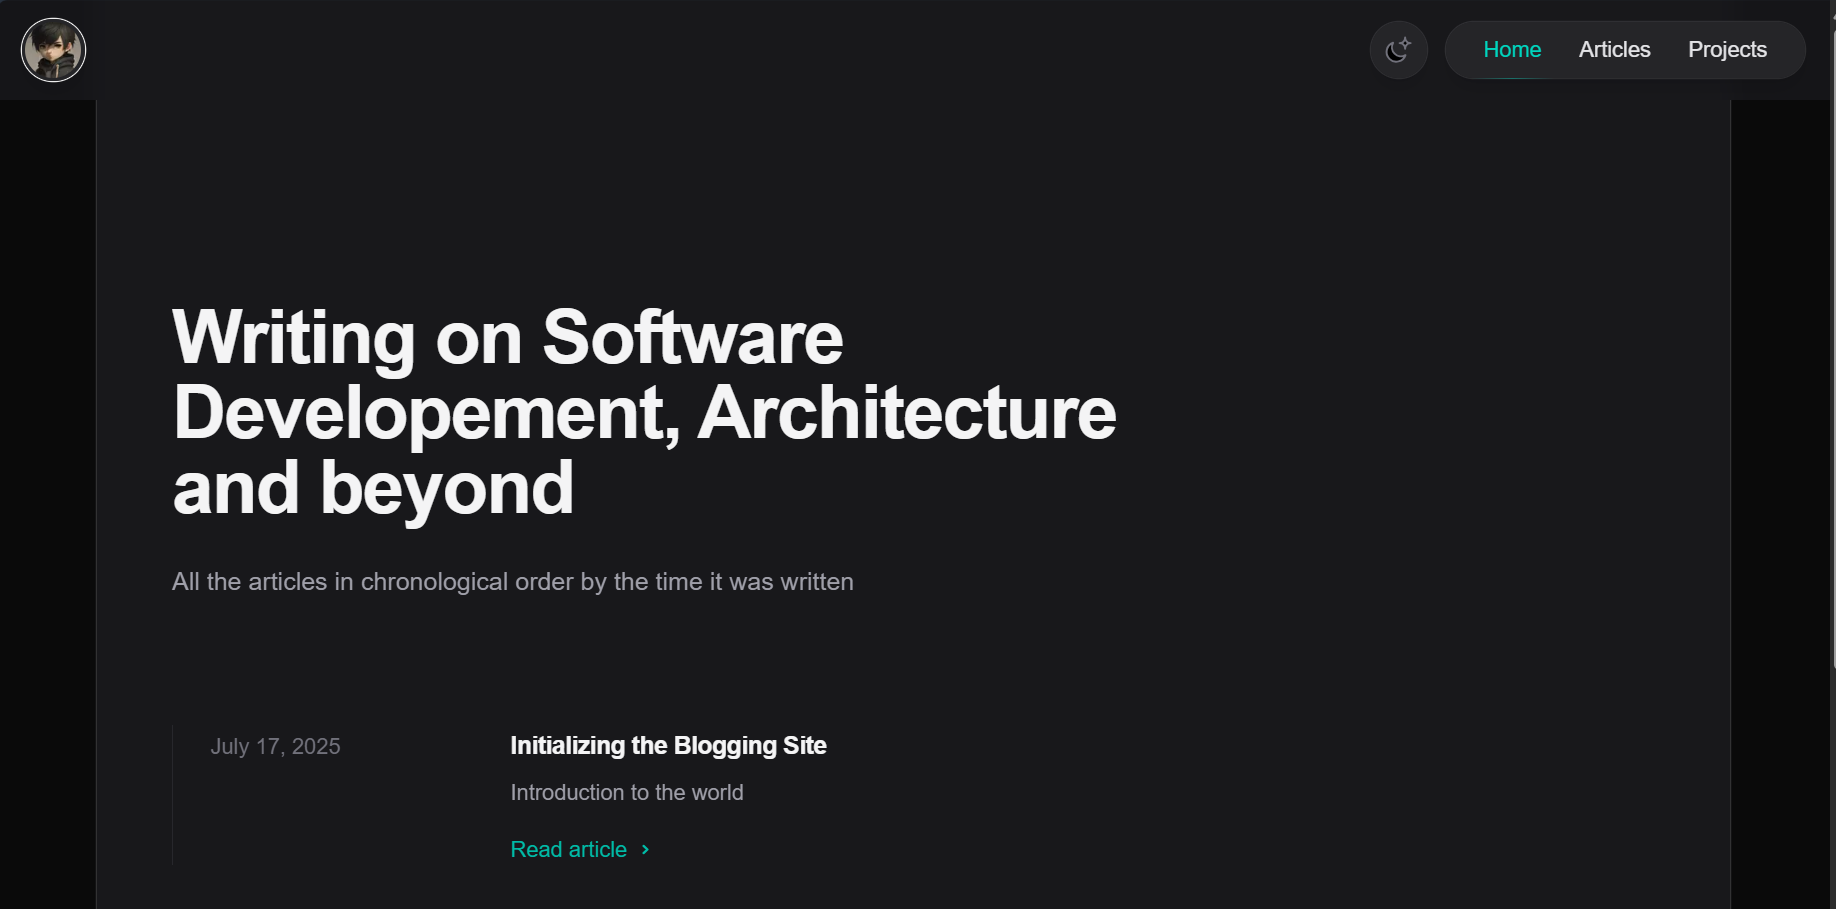
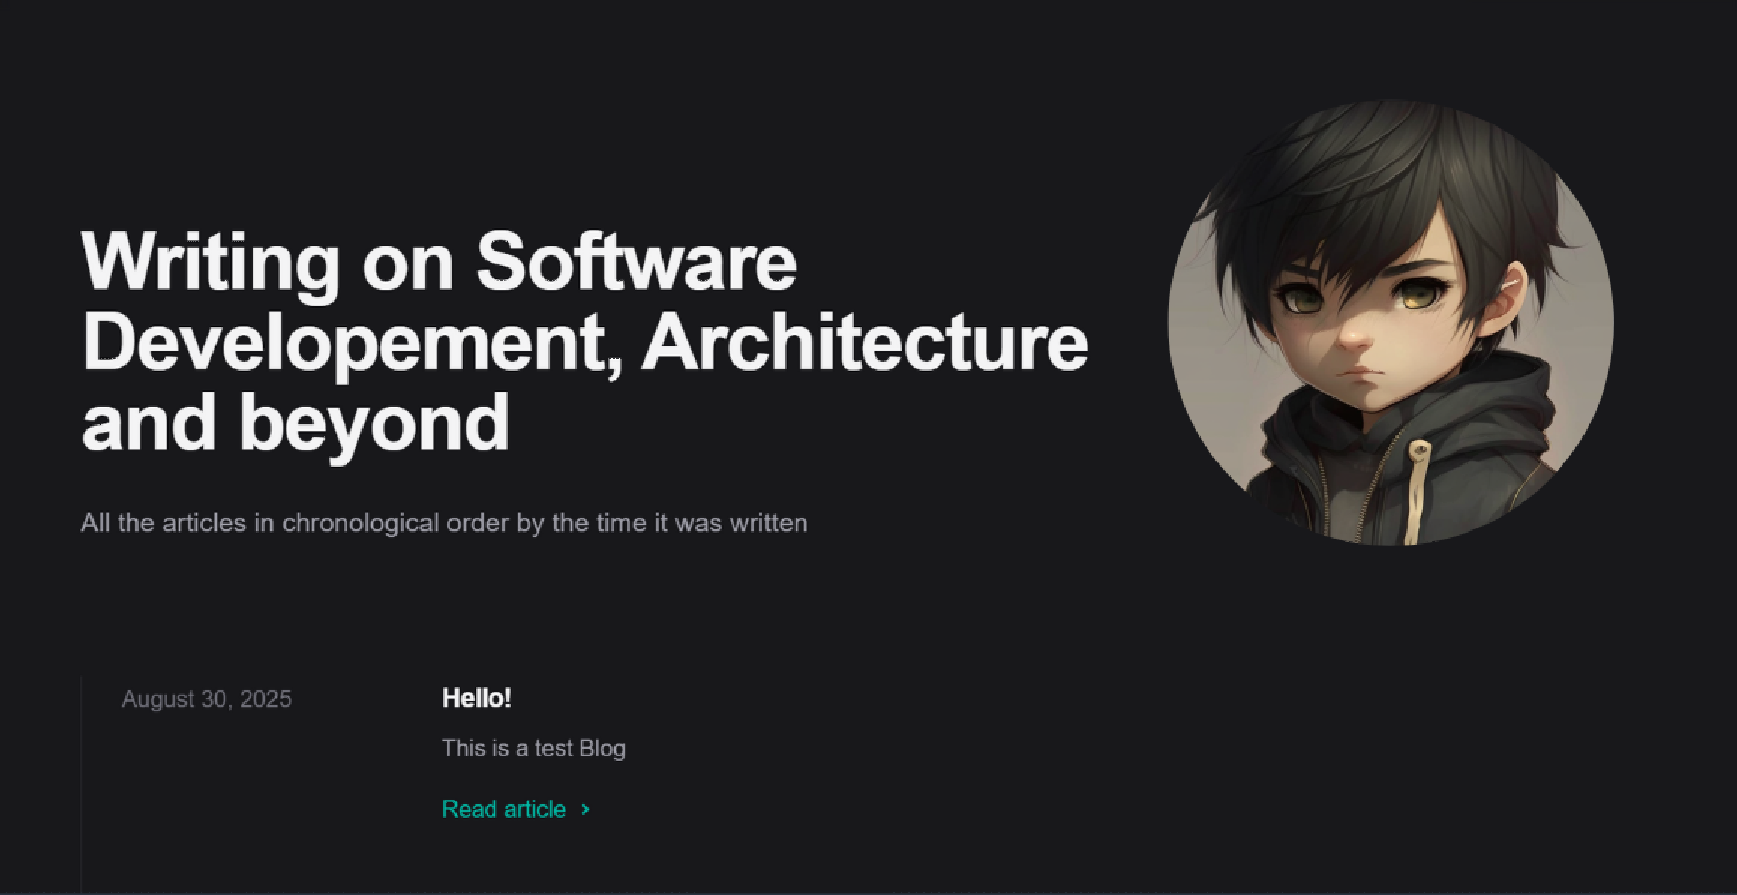
Updated the OG image and the metadata logic

diff --git a/src/app/articles/page.tsx b/src/app/articles/page.tsx
@@ -2,12 +2,22 @@ import { Card } from "@/components/Card";
 import { Container } from "@/components/Container";
 import { formatDate } from "@/lib/formatDate";
 import { type ArticleWithSlug, getAllArticles } from "@/lib/getArticles";
-import { metadata } from "../layout";
+import { Metadata } from "next";
 
-function Article({ article }: { article: ArticleWithSlug }) {
-  metadata.title = article.title;
-  metadata.description = article.description;
-  metadata.keywords = article.keywords;
+export const metadata = async (article: ArticleWithSlug): Promise<Metadata> => {
+  return {
+    title: {
+      default: article.title,
+      template: `%s | Lost in Translation`,
+    },
+    description: article.description,
+
+    keywords: article.keywords,
+  };
+};
+
+async function Article({ article }: { article: ArticleWithSlug }) {
+  await metadata(article);
   return (
     <article className="md:grid md:grid-cols-4 md:items-baseline">
       <Card className="md:col-span-3">
